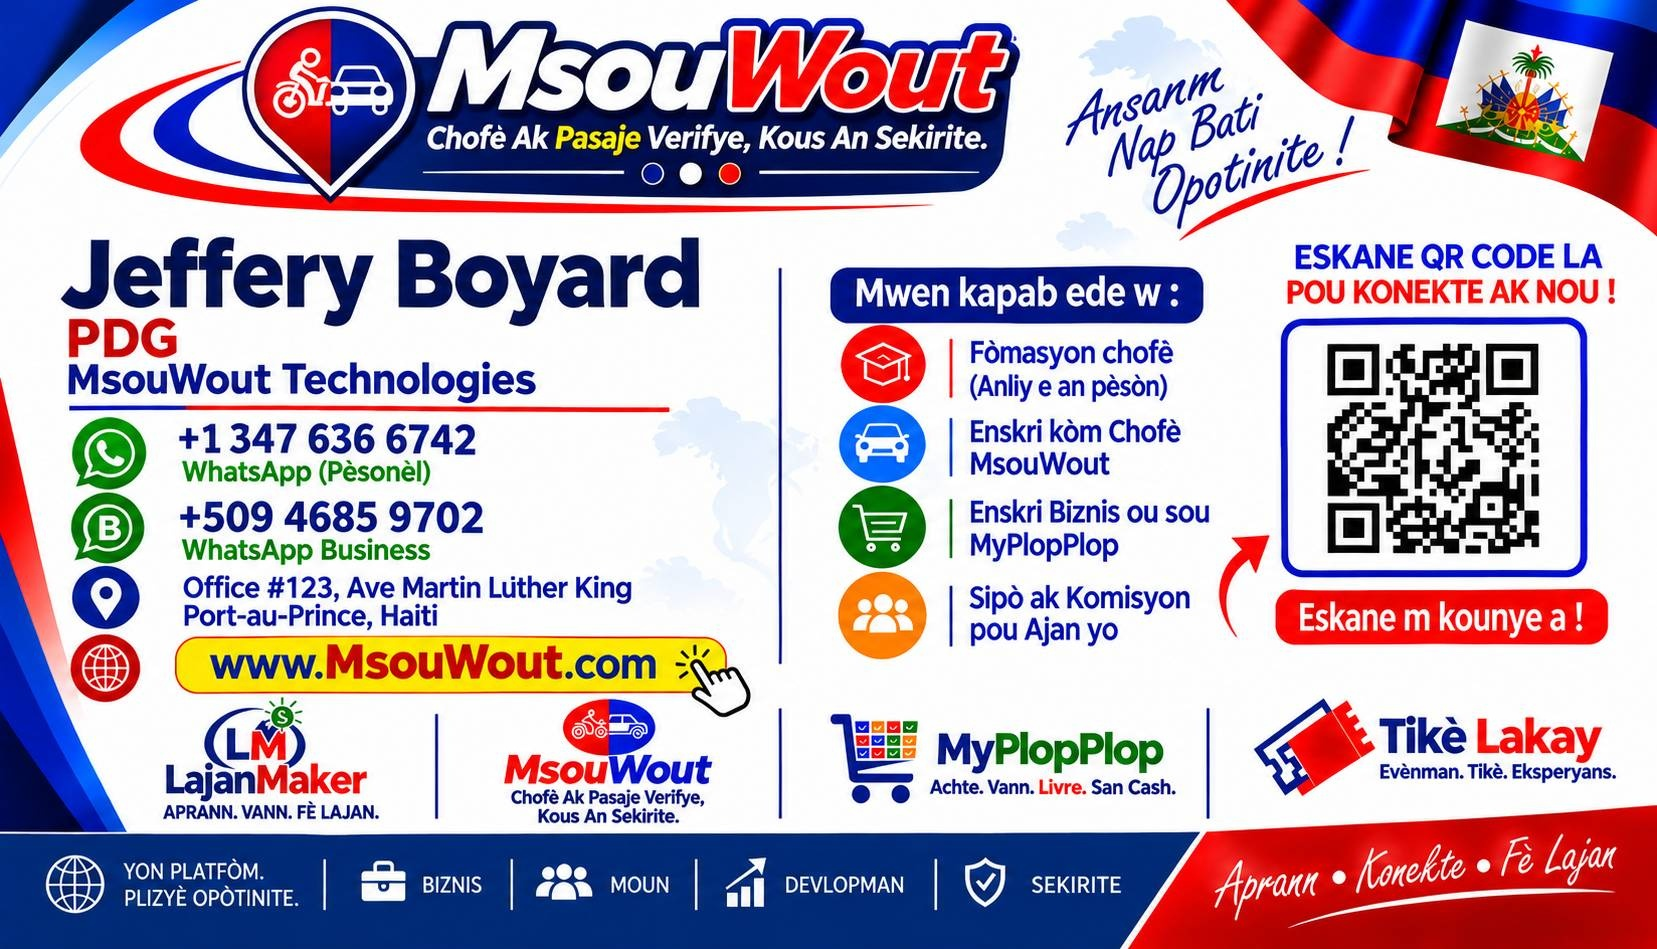
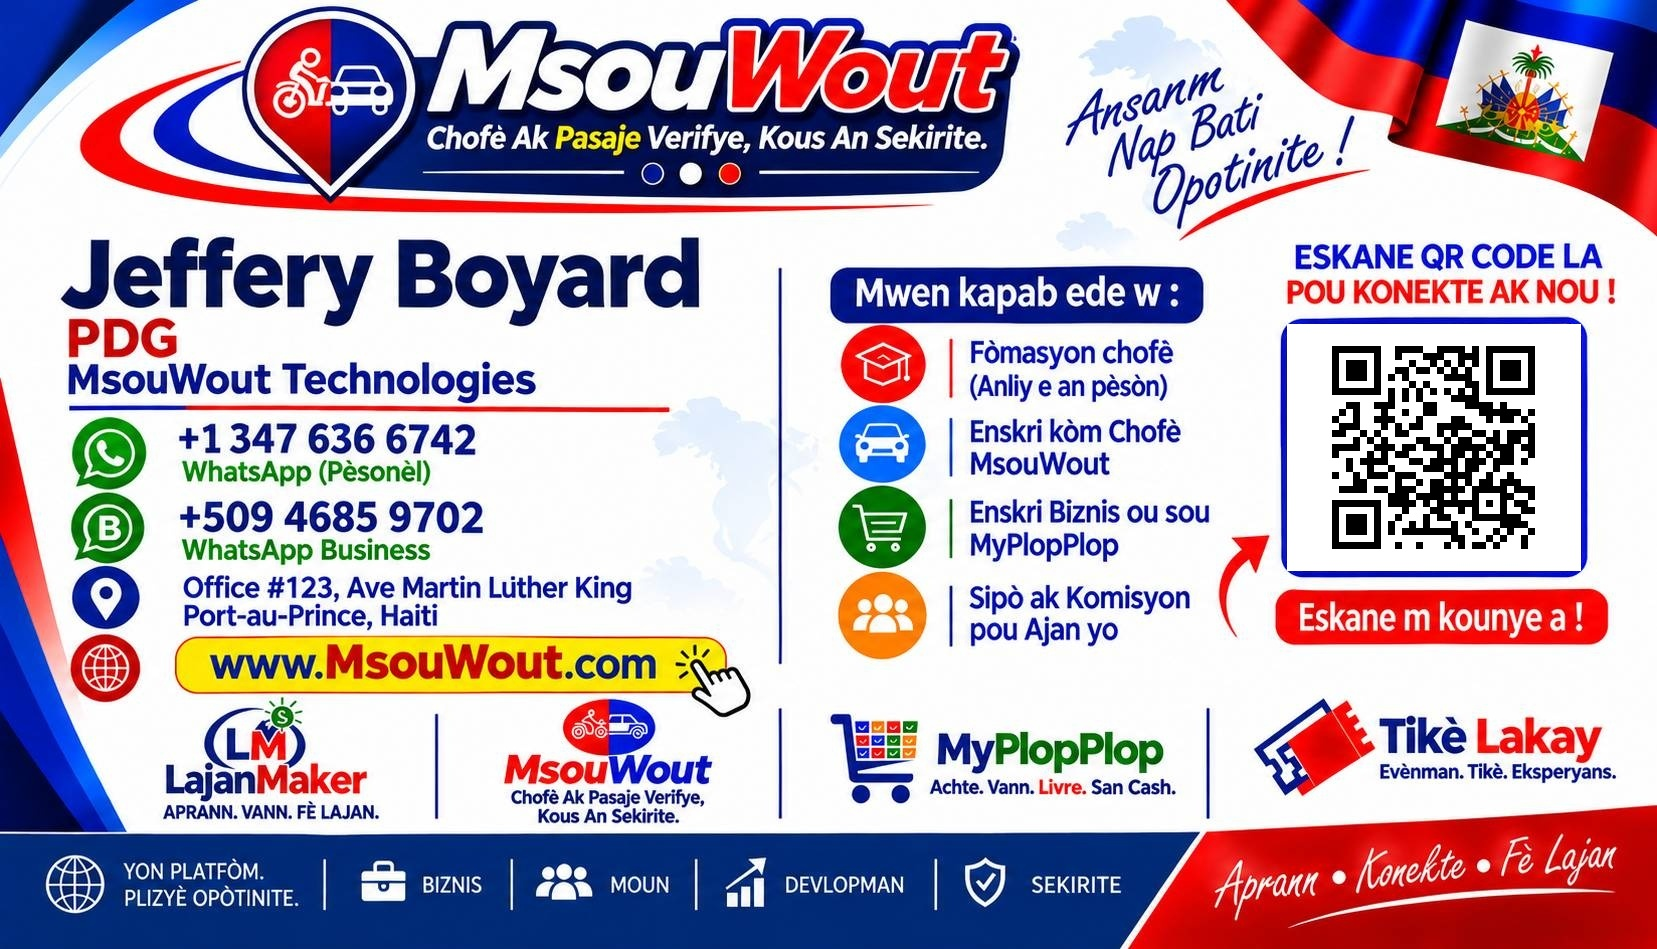
MsouWout business cards: MsouWout QR (msouwout.com) + Jennifer card

Changed region(s): [[0.7695, 0.3361, 0.9541, 0.6112]]

diff --git a/dl/msouwout-cards/index.html b/dl/msouwout-cards/index.html
@@ -6,10 +6,14 @@ h1{font-size:1.25rem;margin:.2em 0 .8em}img{width:100%;border-radius:10px;box-sh
 .c{background:#fff;border-radius:14px;padding:12px;margin:0 0 18px}a.b{display:block;text-align:center;background:#00209F;color:#fff;font-weight:800;padding:13px;border-radius:11px;text-decoration:none;margin-top:10px}
 .n{font-size:.9rem;color:#444;margin-top:8px}</style></head><body><div class="w">
 <h1>MsouWout · Kat biznis (korije)</h1>
+<p style="margin:-.4em 0 1em;color:#333">QR kòd la mennen sou <b>msouwout.com</b> (teste: li eskane)</p>
 <div class="c"><img src="MsouWout-card-Jeffery-Boyard.jpg" alt="Jeffery Boyard">
 <a class="b" href="MsouWout-card-Jeffery-Boyard.jpg" download="MsouWout-card-Jeffery-Boyard.jpg">⬇ Jeffery Boyard</a>
-<div class="n">Korije: Fòmasyon · Chofè (2 fwa)</div></div>
+<div class="n">Korije: QR MsouWout · Fòmasyon · Chofè (2 fwa)</div></div>
 <div class="c"><img src="MsouWout-card-Dukens-Emile.jpg" alt="Dukens Emile">
 <a class="b" href="MsouWout-card-Dukens-Emile.jpg" download="MsouWout-card-Dukens-Emile.jpg">⬇ Dukens Emile</a>
-<div class="n">Korije: Chofè (3 fwa) · fè · MsouWout</div></div>
+<div class="n">Korije: QR MsouWout · Chofè (3 fwa) · fè · MsouWout</div></div>
+<div class="c"><img src="MsouWout-card-Jennifer-Cileus.jpg" alt="Jennifer Cileus">
+<a class="b" href="MsouWout-card-Jennifer-Cileus.jpg" download="MsouWout-card-Jennifer-Cileus.jpg">⬇ Jennifer Cileus</a>
+<div class="n">Korije: QR MsouWout · Fòmasyon · Chofè (3 fwa)</div></div>
 </div><script src="/dl/dl.js"></script></body></html>
